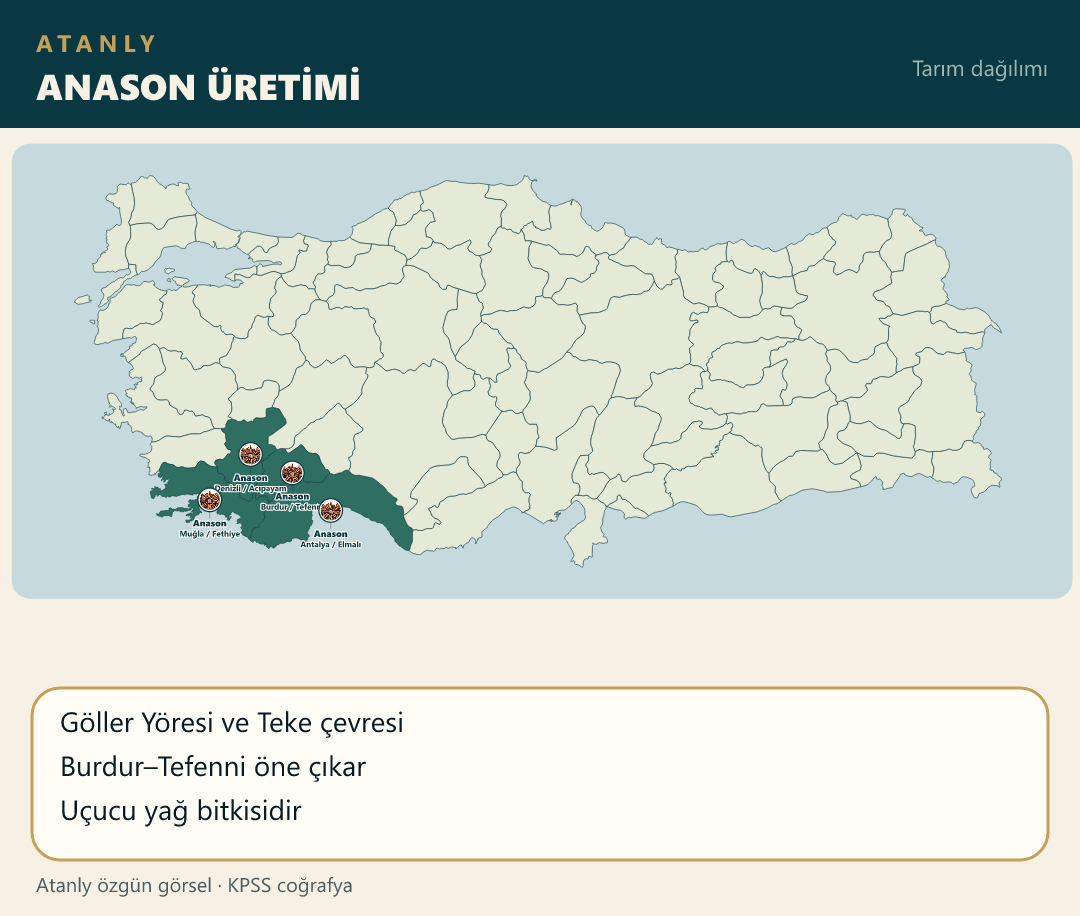
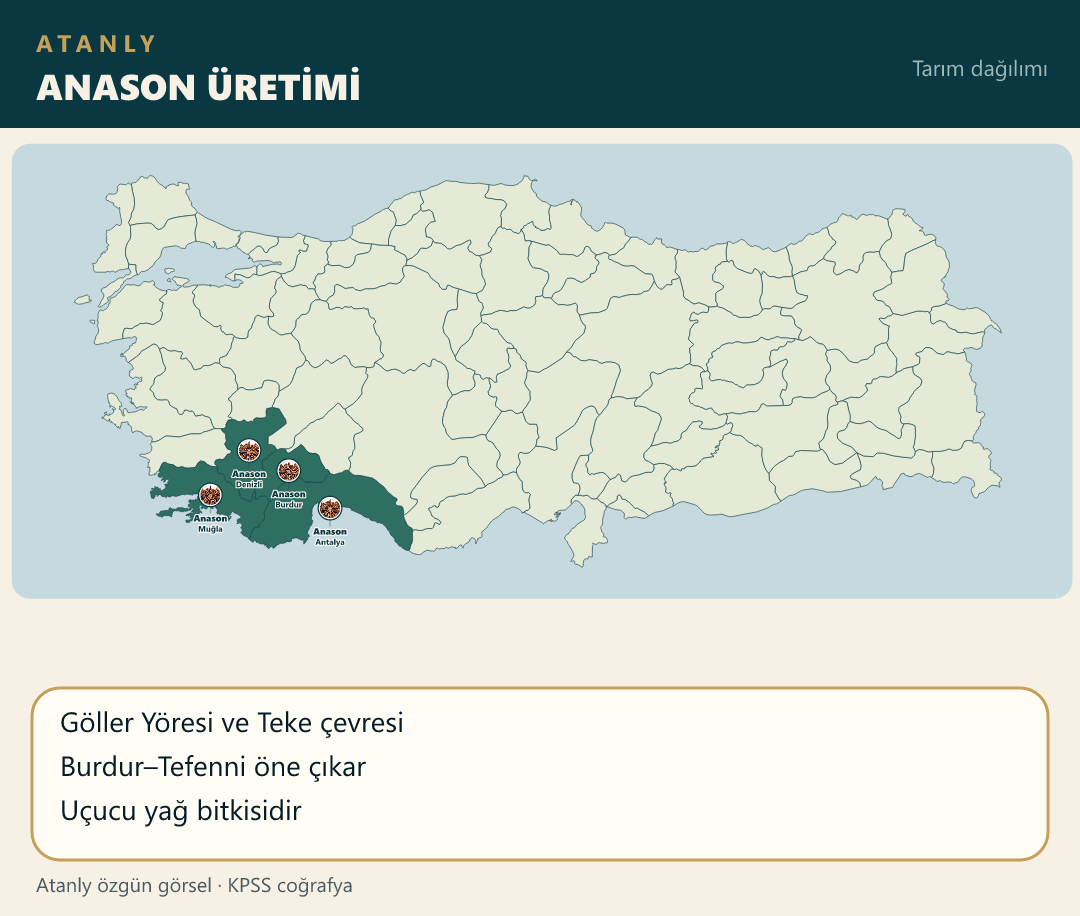
Place crop photos in the filled middle of each province shape.

Changed region(s): [[0.1528, 0.4585, 0.3361, 0.6114]]

diff --git a/scripts/build-atanly-maps.js b/scripts/build-atanly-maps.js
@@ -42,12 +42,14 @@ function norm(s) {
 }
 
 function bboxFromPath(d) {
-    var i = 0, cmd = "M", x = 0, y = 0, minX = 1e9, minY = 1e9, maxX = -1e9, maxY = -1e9;
+    var cmd = "M", x = 0, y = 0, minX = 1e9, minY = 1e9, maxX = -1e9, maxY = -1e9;
+    var pts = [];
     function add(px, py) {
         if (px < minX) minX = px;
         if (py < minY) minY = py;
         if (px > maxX) maxX = px;
         if (py > maxY) maxY = py;
+        pts.push([px, py]);
         x = px; y = py;
     }
     var re = /([MmLlHhVvCcSsQqTtAaZz])|(-?\d+\.?\d*)/g;
@@ -82,7 +84,38 @@ function bboxFromPath(d) {
         }
     }
     if (nums.length) flush();
-    return { cx: (minX + maxX) / 2, cy: (minY + maxY) / 2, minX: minX, minY: minY, maxX: maxX, maxY: maxY, w: maxX - minX, h: maxY - minY };
+    return {
+        cx: (minX + maxX) / 2, cy: (minY + maxY) / 2,
+        minX: minX, minY: minY, maxX: maxX, maxY: maxY,
+        w: maxX - minX, h: maxY - minY, pts: pts
+    };
+}
+
+function pointInPoly(pts, x, y) {
+    var inside = false;
+    for (var i = 0, j = pts.length - 1; i < pts.length; j = i++) {
+        var xi = pts[i][0], yi = pts[i][1], xj = pts[j][0], yj = pts[j][1];
+        if (((yi > y) !== (yj > y)) && (x < (xj - xi) * (y - yi) / ((yj - yi) || 1e-9) + xi)) inside = !inside;
+    }
+    return inside;
+}
+
+function visualCenter(bb) {
+    var pts = bb.pts || [];
+    if (pts.length < 3) return { x: bb.cx, y: bb.cy };
+    var sx = 0, sy = 0, n = 0;
+    var step = Math.max(3, Math.min(bb.w, bb.h) / 22);
+    var x, y;
+    for (y = bb.minY + step / 2; y < bb.maxY; y += step) {
+        for (x = bb.minX + step / 2; x < bb.maxX; x += step) {
+            if (!pointInPoly(pts, x, y)) continue;
+            sx += x;
+            sy += y;
+            n++;
+        }
+    }
+    if (!n) return { x: bb.cx, y: bb.cy };
+    return { x: sx / n, y: sy / n };
 }
 
 function parseProvinces(svg) {
@@ -92,7 +125,12 @@ function parseProvinces(svg) {
     while ((m = re.exec(svg))) {
         var d = m[1];
         var bb = bboxFromPath(d);
-        out.push({ d: d, id: m[2], name: m[3], key: norm(m[3]), cx: bb.cx, cy: bb.cy, minX: bb.minX, minY: bb.minY, maxX: bb.maxX, maxY: bb.maxY, w: bb.w, h: bb.h });
+        var vc = visualCenter(bb);
+        out.push({
+            d: d, id: m[2], name: m[3], key: norm(m[3]),
+            cx: bb.cx, cy: bb.cy, vx: vc.x, vy: vc.y,
+            minX: bb.minX, minY: bb.minY, maxX: bb.maxX, maxY: bb.maxY, w: bb.w, h: bb.h
+        });
     }
     var cre = /<circle class="[^"]*" cx="([\d.]+)" cy="([\d.]+)" id="([^"]+)"/g;
     while ((m = cre.exec(svg))) {
@@ -120,7 +158,7 @@ function keyOf(name) {
 }
 
 function districtXY(fp) {
-    return { x: fp.cx, y: fp.cy };
+    return { x: fp.vx != null ? fp.vx : fp.cx, y: fp.vy != null ? fp.vy : fp.cy };
 }
 
 function findProv(provs, name) {
@@ -443,26 +481,12 @@ function main() {
         { file: "incir.png", title: "İNCİR ÜRETİMİ", iller: ["Aydın", "İzmir", "Muğla", "Bursa", "Gaziantep"], facts: ["Aydın birinci sıradadır", "Ege’nin kurutmalık inciri meşhurdur"] },
         { file: "kayısı.png", title: "KAYISI ÜRETİMİ", iller: ["Malatya", "Elazığ", "Kahramanmaraş", "Iğdır"], facts: ["Malatya dünya ölçeğinde öne çıkar", "Kurutmalık kayısı ihracatı önemlidir"] },
         { file: "muz.png", title: "MUZ ÜRETİMİ", iller: ["Mersin", "Antalya", "Hatay"], facts: ["Don olayının az olduğu kıyı kuşağı", "Anamur–Alanya çevresi yoğundur"] },
-        { file: "anason.png", title: "ANASON ÜRETİMİ", urun: "Anason",
-            noktalar: [
-                { il: "Burdur", ilce: "Tefenni" },
-                { il: "Denizli", ilce: "Acıpayam" },
-                { il: "Antalya", ilce: "Elmalı" },
-                { il: "Muğla", ilce: "Fethiye" }
-            ],
-            facts: ["Göller Yöresi ve Teke çevresi", "Burdur–Tefenni öne çıkar", "Uçucu yağ bitkisidir"] },
+        { file: "anason.png", title: "ANASON ÜRETİMİ", urun: "Anason", iller: ["Burdur", "Denizli", "Antalya", "Muğla"], facts: ["Göller Yöresi ve Teke çevresi", "Burdur–Tefenni öne çıkar", "Uçucu yağ bitkisidir"] },
         { file: "aspir.png", title: "ASPİR ÜRETİMİ", iller: ["Eskişehir", "Konya", "Ankara", "Aksaray"], facts: ["Kuraklığa dayanıklı yağ bitkisi", "İç Anadolu’da ekimi artmaktadır"] },
         { file: "susam.png", title: "SUSAM ÜRETİMİ", iller: ["Antalya", "Muğla", "Manisa", "Adana"], facts: ["Sıcak iklim ister", "Akdeniz ve Ege kıyılarında yetişir"] },
         { file: "tütün.png", title: "TÜTÜN ÜRETİMİ", iller: ["Manisa", "Denizli", "Samsun", "Adıyaman", "Bitlis", "Muş"], facts: ["Ege ve Karadeniz’de klasik üretim alanları", "Doğu Anadolu’da da ekilir"] },
         { file: "yer_fıstık.png", title: "YER FISTIĞI", iller: ["Osmaniye", "Adana", "Aydın", "Kahramanmaraş"], facts: ["Çukurova ve Osmaniye öne çıkar", "Sıcaklık ve kumlu-tınlı toprak ister"] },
-        { file: "antep_fıstık.png", title: "ANTEP FISTIĞI", urun: "Antep fıstığı",
-            noktalar: [
-                { il: "Gaziantep", ilce: "Nizip" },
-                { il: "Şanlıurfa", ilce: "Birecik" },
-                { il: "Siirt", ilce: "Pervari" },
-                { il: "Adıyaman", ilce: "Kâhta" }
-            ],
-            facts: ["Güneydoğu Anadolu’nun karakteristik ürünü", "En çok Şanlıurfa–Birecik çevresi", "Gaziantep–Nizip adıyla anılır"] },
+        { file: "antep_fıstık.png", title: "ANTEP FISTIĞI", urun: "Antep fıstığı", iller: ["Gaziantep", "Şanlıurfa", "Siirt", "Adıyaman"], facts: ["Güneydoğu Anadolu’nun karakteristik ürünü", "En çok Şanlıurfa–Birecik çevresi", "Gaziantep–Nizip adıyla anılır"] },
         { file: "kırmızı_mercimek.png", title: "KIRMIZI MERCİMEK", iller: ["Şanlıurfa", "Diyarbakır", "Mardin", "Batman"], facts: ["Güneydoğu Anadolu birinci sıradadır", "Kuraklığa dayanıklı baklagildir"] },
         { file: "gül.png", title: "GÜL ÜRETİMİ", iller: ["Isparta", "Burdur", "Afyon", "Denizli"], facts: ["Isparta ‘gül bahçesi’ olarak anılır", "Yağ gülü üretimi yoğundur"] },
         { file: "turunc.png", title: "TURUNÇGİL ÜRETİMİ", iller: ["Antalya", "Mersin", "Adana", "Hatay", "Muğla"], facts: ["Akdeniz kıyı kuşağı", "Don riski düşük yerlerde yetişir"] },

diff --git a/notlar/cografya-19-not.js b/notlar/cografya-19-not.js
@@ -2,7 +2,7 @@
 (function () {
     function harita(src, alt) {
         return '<div class="mt-4 overflow-hidden rounded-xl border border-blue-200 dark:border-blue-700/50 bg-white dark:bg-slate-800 p-2">' +
-            '<img src="./src/img/' + src + '?v=15" alt="' + alt + ' Haritası" class="w-full h-auto rounded-lg object-contain" loading="lazy">' +
+            '<img src="./src/img/' + src + '?v=16" alt="' + alt + ' Haritası" class="w-full h-auto rounded-lg object-contain" loading="lazy">' +
             "</div>";
     }
 

diff --git a/index.html b/index.html
@@ -117,7 +117,7 @@
     <script src="notlar/cografya-16-not.js?v=3"></script>
     <script src="notlar/cografya-17-not.js?v=3"></script>
     <script src="notlar/cografya-18-not.js?v=9"></script>
-    <script src="notlar/cografya-19-not.js?v=11"></script>
+    <script src="notlar/cografya-19-not.js?v=12"></script>
     <script src="notlar/cografya-20-not.js?v=1"></script>
     <script src="notlar/cografya-21-not.js?v=4"></script>
     <script src="notlar/vatandas-1-not.js?v=3"></script>
